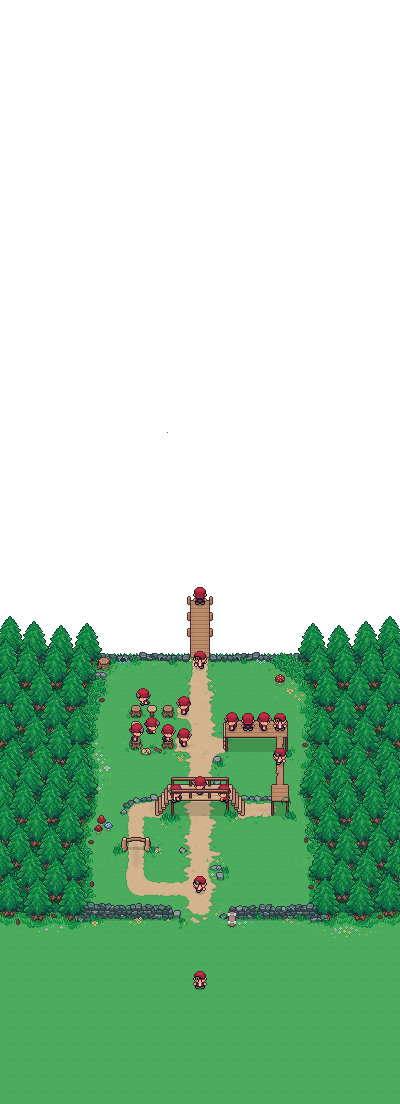
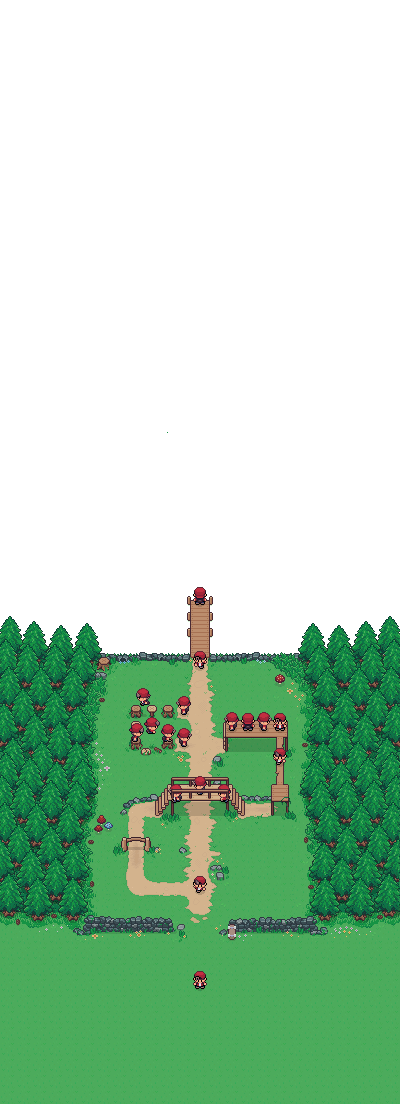
WIP

Changed region(s): [[0.18, 0.8007, 0.48, 0.8623], [0.54, 0.8007, 0.81, 0.8623]]

diff --git a/src/scenes/world/start/data.ts b/src/scenes/world/start/data.ts
@@ -74,45 +74,6 @@ function range(
 	return out;
 }
 
-const blockedCells = [
-	// Dock
-	[12, 36, 0],
-	...range(11, [37, 39]),
-	...range(13, [37, 39]),
-
-	// Beach
-	...range([6, 11], 40),
-	...range([13, 18], 40),
-
-	// Woods
-	[6, 41, 0],
-	...range(19, [41, 56]),
-	...range(5, [41, 56]),
-
-	// Fence
-	...range([5, 10], 57),
-	...range([14, 19], 57),
-
-	// Fence Woods
-	...range([0, 4], 57),
-	...range([20, 24], 57),
-] as const satisfies [number, number, number][];
-
-for (const cell of blockedCells) {
-	cells.set(cellKey(cell[0], cell[1], cell[2]), {
-		blocked: true,
-	});
-}
-
-// Mushroom at 17,42,0 blocks and is interactable
-cells.set(cellKey(17, 42, 0), {
-	blocked: true,
-	interact: {
-		id: "mushroom_17_42",
-		onActivate: () => console.log("Mushroom activated!"),
-	},
-});
-
 // Jump stubs (height configurable)
 const jumpStubHeightPx = 6;
 (
@@ -143,6 +104,81 @@ function setEdgeTransition(
 function setEdgeBlocked(x: number, y: number, z: number, dir: Direction) {
 	edges.set(edgeKey(x, y, z, dir), { blocked: true });
 }
+
+const blockedCells = [
+	// Dock
+	[12, 36, 0],
+	...range(11, [37, 39]),
+	...range(13, [37, 39]),
+
+	// Beach
+	...range([6, 11], 40),
+	...range([13, 18], 40),
+
+	// Woods
+	[6, 41, 0],
+	...range(19, [41, 57]),
+	...range(5, [41, 57]),
+
+	// Fence Woods
+	...range([0, 4], 57),
+	...range([20, 24], 57),
+
+	// Skateboard
+	[14, 58, 0],
+] as const satisfies [number, number, number][];
+
+for (const cell of blockedCells) {
+	cells.set(cellKey(cell[0], cell[1], cell[2]), {
+		blocked: true,
+	});
+}
+
+const stoneFenceCells = [
+	...range([5, 10], 57),
+	...range([14, 19], 57),
+] as const;
+
+stoneFenceCells.forEach((cell) => {
+	setEdgeBlocked(cell[0], cell[1], cell[2], "down");
+	setEdgeBlocked(cell[0], cell[1] + 1, cell[2], "up");
+});
+
+const bridgeCells = [...range([10, 14], 49, 1)] as const;
+
+bridgeCells.forEach((cell) => {
+	setEdgeBlocked(cell[0], cell[1], cell[2], "up");
+	setEdgeBlocked(cell[0], cell[1], cell[2], "down");
+});
+
+const jumpablePlatformEdges = [
+	["up", [...range([14, 17], 45, 1)]],
+	["down", [...range([14, 16], 45, 1), [17, 49, 1]]],
+	["right", [...range(17, [45, 49], 1)]],
+	["left", [...range(17, [46, 49], 1)]],
+] as const satisfies [Direction, [number, number, number][]][];
+
+jumpablePlatformEdges.forEach(([direction, cells]) => {
+	cells.forEach((cell) => {
+		setEdgeBlocked(cell[0], cell[1], cell[2], direction);
+	});
+});
+
+const mushroomCells = [
+	[6, 51, 0],
+	[17, 42, 0],
+] as const;
+
+// Mushroom at 17,42,0 blocks and is interactable
+mushroomCells.forEach((cell) => {
+	cells.set(cellKey(cell[0], cell[1], cell[2]), {
+		blocked: true,
+		interact: {
+			id: "pretty_mushrooms",
+			onActivate: () => console.log("Mushroom activated!"),
+		},
+	});
+});
 
 // Ladder:
 // trigger when moving RIGHT from (13,46,0):
